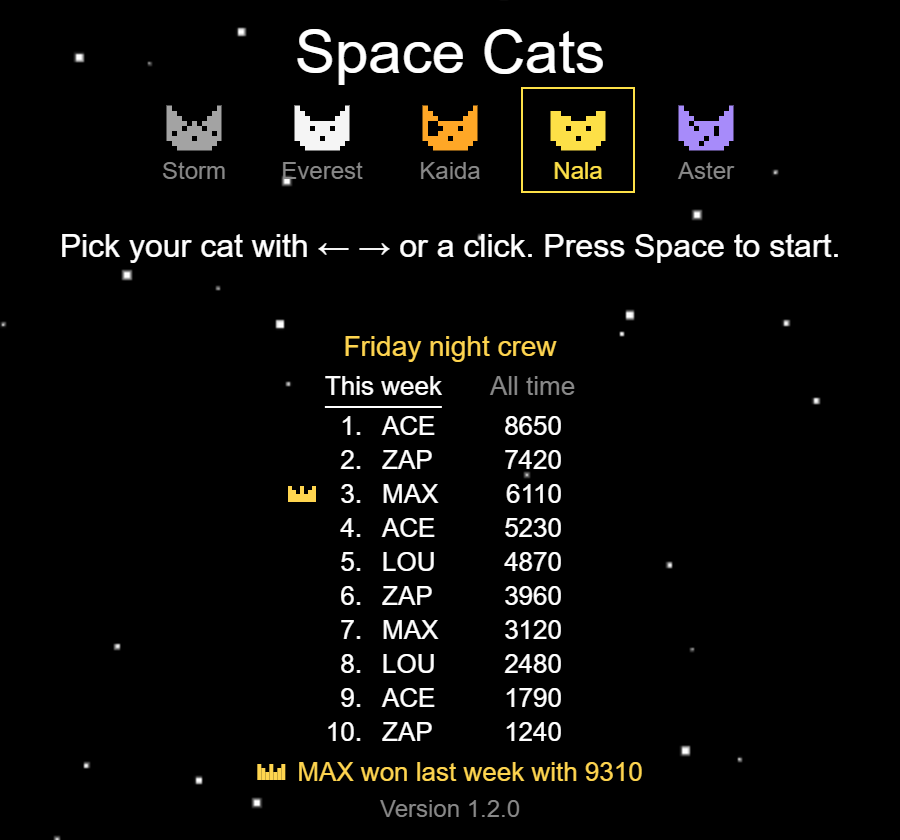
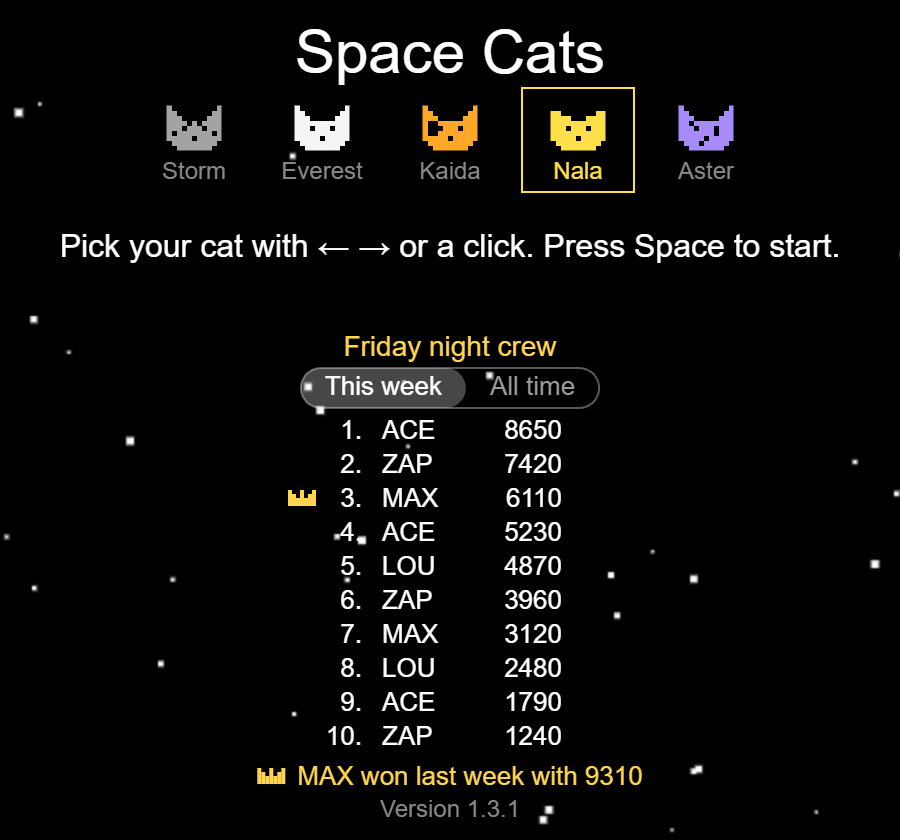
Make the leaderboard switch look tappable, and add hover effects
Space Cats 1.3.1. This week and All time now sit in a rounded two-way
switch with the chosen side filled in, so it reads as something to tap
on a phone, where there's no hover. Its tap area is a little taller and
wider than the switch itself.

On a computer, the pointer turns into a hand over anything on the canvas
that can be clicked, the cats on the start screen and the switch, and
the thing under it lights up. It's checked every frame, so it stays
right when a screen changes under a still mouse. The home page's link to
spacecats.js moves to 1.3.1 too, as the file changed.

diff --git a/games/space-cats/js/spacecats.js b/games/space-cats/js/spacecats.js
@@ -308,6 +308,11 @@ function Game() {
   //  Called whenever the state changes, so the page can update its buttons.
   this.onStateChange = null;
 
+  //  Where the mouse is over the canvas, in game pixels (null if it isn't,
+  //  or on touch screens), and what clickable thing it's over.
+  this.pointer = null;
+  this.hovered = null;
+
   //  The page to go back to from the start screen on touch screens, if any.
   this.homeUrl = null;
 
@@ -456,6 +461,7 @@ function GameLoop(game) {
     if (currentState.update) {
       currentState.update(game, dt);
     }
+    game.updateCursor();
     if (currentState.draw) {
       currentState.draw(game, dt, ctx);
     }
@@ -680,6 +686,26 @@ Game.prototype.toGamePoint = function(clientX, clientY) {
   };
 };
 
+//  The mouse moving over the canvas, on a computer.
+Game.prototype.mousemove = function(e) {
+  if (!this.touchMode) {
+    this.pointer = this.toGamePoint(e.clientX, e.clientY);
+  }
+};
+
+//  On a computer, the pointer turns into a hand over anything on the canvas
+//  that can be clicked, like the cats on the start screen and the
+//  leaderboard's switch, and the screen lights that thing up. Checked every
+//  frame, so it stays right when the screen changes under a still mouse.
+Game.prototype.updateCursor = function() {
+  var state = this.currentState();
+  this.hovered = this.pointer && state && state.hoverTarget ? state.hoverTarget(this, this.pointer) : null;
+  var cursor = this.hovered ? 'pointer' : '';
+  if (this.gameCanvas.style.cursor !== cursor) {
+    this.gameCanvas.style.cursor = cursor;
+  }
+};
+
 Game.prototype.touchmove = function(e) {
   for (var i = 0; i < e.changedTouches.length; i++) {
     var touch = e.changedTouches[i];
@@ -792,20 +818,22 @@ function hasHomeLink(game) {
   return !!(game.homeUrl && game.touchMode);
 }
 
-//  Draws the five cats in a row, each with its name, centred on y.
+//  Draws the five cats in a row, each with its name, centred on y. On a
+//  computer, a cat the pointer is over gets a faint box.
 function drawCatPicker(game, ctx, y) {
   var width = CAT_FACES.plain[0].length * PICKER_PIXEL_SIZE;
   var height = CAT_FACES.plain.length * PICKER_PIXEL_SIZE;
+  var hovered = game.hovered && typeof game.hovered.cat === 'number' ? game.hovered.cat : -1;
   ctx.imageSmoothingEnabled = false;
   for (var i = 0; i < CATS.length; i++) {
     var catX = pickerCatX(game, i);
     ctx.drawImage(game.catSprites[i], catX - width / 2, y - height / 2 - 6, width, height);
     var chosen = i === game.chosenCat;
     ctx.font = "12px Arial";
-    ctx.fillStyle = chosen ? CATS[i].colour : '#888888';
+    ctx.fillStyle = chosen ? CATS[i].colour : (i === hovered ? '#dddddd' : '#888888');
     ctx.fillText(CATS[i].name, catX, y + 16);
-    if (chosen) {
-      ctx.strokeStyle = CATS[i].colour;
+    if (chosen || i === hovered) {
+      ctx.strokeStyle = chosen ? CATS[i].colour : 'rgba(255, 255, 255, 0.35)';
       ctx.lineWidth = 1;
       ctx.strokeRect(catX - PICKER_SPACING / 2 + 4, y - 26, PICKER_SPACING - 8, 52);
     }
@@ -834,16 +862,36 @@ WelcomeState.prototype.tap = function(game, point) {
   if (tapBoardSwitch(game, point)) {
     return true;
   }
+  var cat = this.catAt(game, point);
+  if (cat !== null) {
+    game.chooseCat(cat);
+    return true;
+  }
+  return false;
+};
+
+//  Which cat on the start screen a point is on, or null.
+WelcomeState.prototype.catAt = function(game, point) {
   if (Math.abs(point.y - this.catsY) > 30) {
-    return false;
+    return null;
   }
   for (var i = 0; i < CATS.length; i++) {
     if (Math.abs(point.x - pickerCatX(game, i)) <= PICKER_SPACING / 2) {
-      game.chooseCat(i);
-      return true;
+      return i;
     }
   }
-  return false;
+  return null;
+};
+
+//  What the pointer is over on the start screen that can be clicked: a cat
+//  or the leaderboard's switch (see Game.updateCursor).
+WelcomeState.prototype.hoverTarget = function(game, point) {
+  var view = boardSwitchAt(game, point);
+  if (view) {
+    return { view: view };
+  }
+  var cat = this.catAt(game, point);
+  return cat === null ? null : { cat: cat };
 };
 
 function GameOverState() {
@@ -891,6 +939,11 @@ GameOverState.prototype.tap = function(game, point) {
   return tapBoardSwitch(game, point);
 };
 
+GameOverState.prototype.hoverTarget = function(game, point) {
+  var view = boardSwitchAt(game, point);
+  return view ? { view: view } : null;
+};
+
 //  Whether this device has a leaderboard to show (see js/leaderboard.js).
 function hasLeaderboard(game) {
   return !!(game.leaderboard && game.leaderboard.board());
@@ -908,7 +961,7 @@ function drawLeaderboard(game, ctx, y) {
   var entries = board.top(weekly ? 'week' : 'all');
   var champion = weekly ? board.champion() : null;
   var x = game.width / 2;
-  var rowsY = y + 40;
+  var rowsY = y + 42;
   var footerY = rowsY + Math.max(entries.length, 1) * 17 + 3;
   ctx.textAlign = "center";
   ctx.font = "14px Arial";
@@ -961,39 +1014,75 @@ var BOARD_VIEWS = [
   { view: 'week', label: "This week" },
   { view: 'all', label: "All time" }
 ];
-var BOARD_SWITCH_GAP = 24;
+var BOARD_SWITCH_PADDING = 12;
+var BOARD_SWITCH_HEIGHT = 20;
 
 //  Draws the switch between this week's top 10 and the all-time one,
-//  centred on y, with a line under the one showing. Remembers where it is,
-//  so a tap can tell which was picked.
+//  centred on y: two halves in a rounded outline, like the buttons, with
+//  the one showing filled in. On a computer, the other half lights up when
+//  the pointer is over it. Remembers where it is, so a tap can tell which
+//  half was picked.
 function drawBoardSwitch(game, ctx, y, weekly) {
   var x = game.width / 2;
   ctx.font = "13px Arial";
-  ctx.textAlign = "left";
-  var widths = BOARD_VIEWS.map(function(option) { return ctx.measureText(option.label).width; });
-  var left = x - (widths[0] + BOARD_SWITCH_GAP + widths[1]) / 2;
-  for (var i = 0; i < BOARD_VIEWS.length; i++) {
-    var chosen = (BOARD_VIEWS[i].view === 'week') === weekly;
-    ctx.fillStyle = chosen ? '#ffffff' : '#888888';
-    ctx.fillText(BOARD_VIEWS[i].label, left, y);
-    if (chosen) {
-      ctx.fillRect(left, y + 9, widths[i], 1);
-    }
-    left += widths[i] + BOARD_SWITCH_GAP;
-  }
+  var widths = BOARD_VIEWS.map(function(option) { return ctx.measureText(option.label).width + 2 * BOARD_SWITCH_PADDING; });
+  var left = x - (widths[0] + widths[1]) / 2;
+  var top = y - BOARD_SWITCH_HEIGHT / 2;
+  var radius = BOARD_SWITCH_HEIGHT / 2;
+  var hovered = game.hovered && game.hovered.view;
+  var segmentLeft = left;
   ctx.textAlign = "center";
-  game.boardSwitch = { x: x, y: y };
+  for (var i = 0; i < BOARD_VIEWS.length; i++) {
+    var view = BOARD_VIEWS[i].view;
+    var chosen = (view === 'week') === weekly;
+    if (chosen || view === hovered) {
+      ctx.fillStyle = chosen ? 'rgba(255, 255, 255, 0.28)' : 'rgba(255, 255, 255, 0.1)';
+      roundedRect(ctx, segmentLeft, top, widths[i], BOARD_SWITCH_HEIGHT, radius);
+      ctx.fill();
+    }
+    ctx.fillStyle = chosen ? '#ffffff' : (view === hovered ? '#dddddd' : '#999999');
+    ctx.fillText(BOARD_VIEWS[i].label, segmentLeft + widths[i] / 2, y);
+    segmentLeft += widths[i];
+  }
+  ctx.strokeStyle = 'rgba(255, 255, 255, 0.35)';
+  ctx.lineWidth = 1;
+  roundedRect(ctx, left, top, widths[0] + widths[1], BOARD_SWITCH_HEIGHT, radius);
+  ctx.stroke();
+  game.boardSwitch = { left: left, middle: left + widths[0], right: left + widths[0] + widths[1], y: y };
 }
 
-//  A tap on the switch above the leaderboard shows this week's top 10 (the
-//  left half) or the all-time one (the right half). Says whether it hit.
-function tapBoardSwitch(game, point) {
-  var tapped = game.boardSwitch;
-  if (!hasLeaderboard(game) || !tapped || Math.abs(point.y - tapped.y) > 14 || Math.abs(point.x - tapped.x) > 90) {
-    return false;
+//  Traces a rectangle with rounded ends (ctx.roundRect isn't in older
+//  iPhone browsers).
+function roundedRect(ctx, x, y, width, height, radius) {
+  ctx.beginPath();
+  ctx.moveTo(x + radius, y);
+  ctx.arcTo(x + width, y, x + width, y + height, radius);
+  ctx.arcTo(x + width, y + height, x, y + height, radius);
+  ctx.arcTo(x, y + height, x, y, radius);
+  ctx.arcTo(x, y, x + width, y, radius);
+  ctx.closePath();
+}
+
+//  Which half of the leaderboard's switch a point is on, 'week' or 'all', or
+//  null if it's not on the switch. The area counted is a little bigger than
+//  the switch, for fingers.
+function boardSwitchAt(game, point) {
+  var drawn = game.boardSwitch;
+  if (!hasLeaderboard(game) || !drawn || Math.abs(point.y - drawn.y) > 16 ||
+    point.x < drawn.left - 10 || point.x > drawn.right + 10) {
+    return null;
   }
-  game.boardView = point.x < tapped.x ? 'week' : 'all';
-  return true;
+  return point.x < drawn.middle ? 'week' : 'all';
+}
+
+//  A tap on the switch above the leaderboard shows this week's top 10 or
+//  the all-time one. Says whether it hit.
+function tapBoardSwitch(game, point) {
+  var view = boardSwitchAt(game, point);
+  if (view) {
+    game.boardView = view;
+  }
+  return !!view;
 }
 
 //  A little gold crown for last week's winner, centred on x, y.

diff --git a/games/space-cats/index.html b/games/space-cats/index.html
@@ -8,9 +8,9 @@
   <!-- The ./ stops Vite's build reading these as package names. The ?v=
        matches the version in package.json: change both with each release,
        so browsers load that release's files rather than older copies. -->
-  <link href="./css/core.css?v=1.3.0" type="text/css" rel="stylesheet">
-  <link href="./css/typeography.css?v=1.3.0" type="text/css" rel="stylesheet">
-  <link href="./css/style.css?v=1.3.0" rel="stylesheet" type="text/css" />
+  <link href="./css/core.css?v=1.3.1" type="text/css" rel="stylesheet">
+  <link href="./css/typeography.css?v=1.3.1" type="text/css" rel="stylesheet">
+  <link href="./css/style.css?v=1.3.1" rel="stylesheet" type="text/css" />
   <!-- A cat in the browser tab, and on the home screen when the game is
        added to a phone. The game redraws the tab's cat as the one you play
        as. The manifest gives Android its icons and name. -->
@@ -45,9 +45,9 @@
     </div>
   </div>
 
-  <script src="js/starfield.js?v=1.3.0"></script>
-  <script src="js/spacecats.js?v=1.3.0"></script>
-  <script src="js/leaderboard.js?v=1.3.0"></script>
+  <script src="js/starfield.js?v=1.3.1"></script>
+  <script src="js/spacecats.js?v=1.3.1"></script>
+  <script src="js/leaderboard.js?v=1.3.1"></script>
   <script>
     //  Create the starfield.
     var container = document.getElementById('starfield');
@@ -131,9 +131,17 @@
 
     });
 
-    //  Clicking a cat on the start screen picks it.
+    //  Clicking a cat on the start screen picks it. On a computer, the
+    //  pointer turns into a hand over anything on the canvas that can be
+    //  clicked.
     canvas.addEventListener('click', function (e) {
       game.click(e);
+    });
+    canvas.addEventListener('mousemove', function (e) {
+      game.mousemove(e);
+    });
+    canvas.addEventListener('mouseleave', function () {
+      game.pointer = null;
     });
     window.addEventListener("keyup", function keydown(e) {
       if (initialsOpen()) return;

diff --git a/index.html b/index.html
@@ -136,7 +136,7 @@
   </ul>
 
   <!-- Space Cats' own sprites and cats, so the page and the game always match. -->
-  <script src="games/space-cats/js/spacecats.js?v=1.2.0"></script>
+  <script src="games/space-cats/js/spacecats.js?v=1.3.1"></script>
   <script src="assets/arcadia.js?v=2.7.0"></script>
   <script type="module" src="assets/scene.js?v=2.7.0"></script>
 </body>

diff --git a/games/space-cats/README.md b/games/space-cats/README.md
@@ -68,7 +68,7 @@ The start screen shows which version you're playing. If you think you're on an o
 
 The game can keep a top 10 shared by a family or group of friends, on any device. It starts again every Monday at midnight (South African time), and last week's winner gets a crown. Make a board on the [Arcadia home page](https://azadmotala.github.io/arcadia/#boards) and send its link to everyone who should be on it. Each device remembers the board after opening the link once, and every Arcadia game uses it. Only people who know the link can see the board or add to it.
 
-The board's name heads it on the start screen and when a game ends. A board made as "Friday night crew" shows **Friday night crew**; one made without a name shows **Leaderboard**. Under the name, **This week** and **All time** switch between the two top 10s; tap or click one. Below this week's scores is who won last week, and if they're on the board again this week, their crown sits beside them.
+The board's name heads it on the start screen and when a game ends. A board made as "Friday night crew" shows **Friday night crew**; one made without a name shows **Leaderboard**. Under the name, a two-way switch, **This week** and **All time**, changes which top 10 it shows; tap or click either side. On a computer, the pointer turns into a hand over anything on the screen you can click, the cats and the switch. Below this week's scores is who won last week, and if they're on the board again this week, their crown sits beside them.
 
 <img src="../../docs/leaderboard.png" alt="The start screen with the five cats to pick from, Nala picked, and the Friday night crew board underneath: This week and All time, this week's top 10 of three-letter initials and scores, and a crown for last week's winner" width="360">
 
